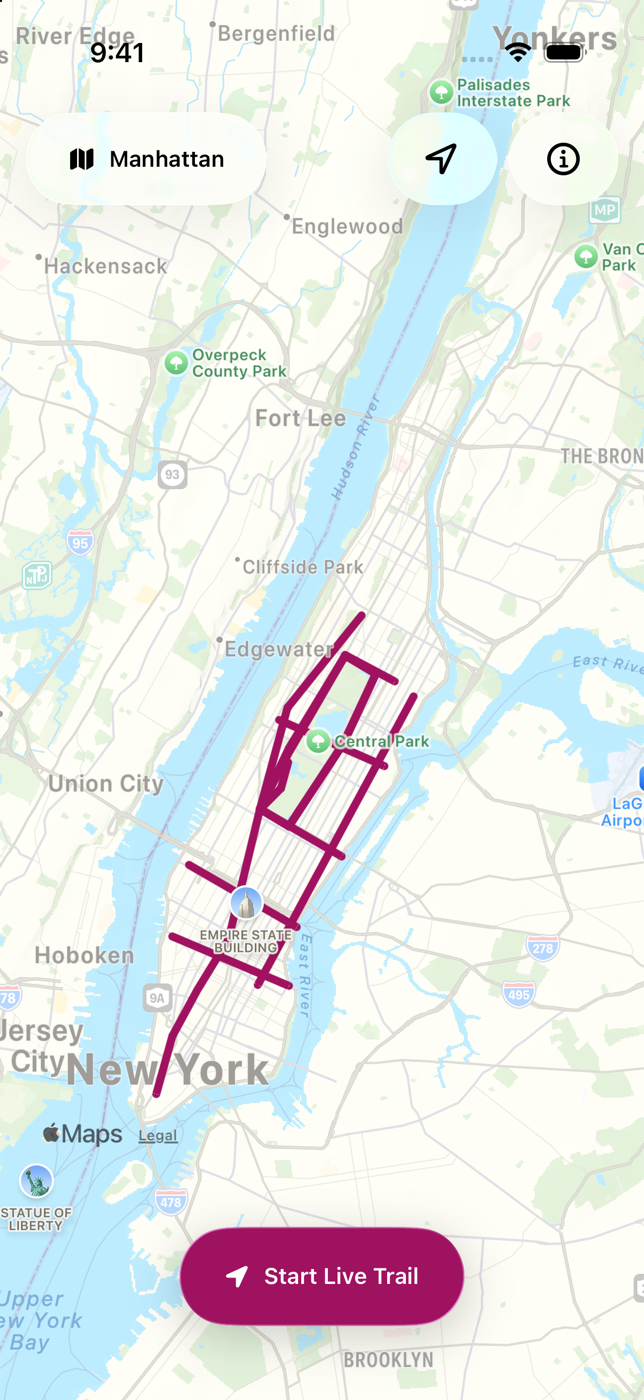
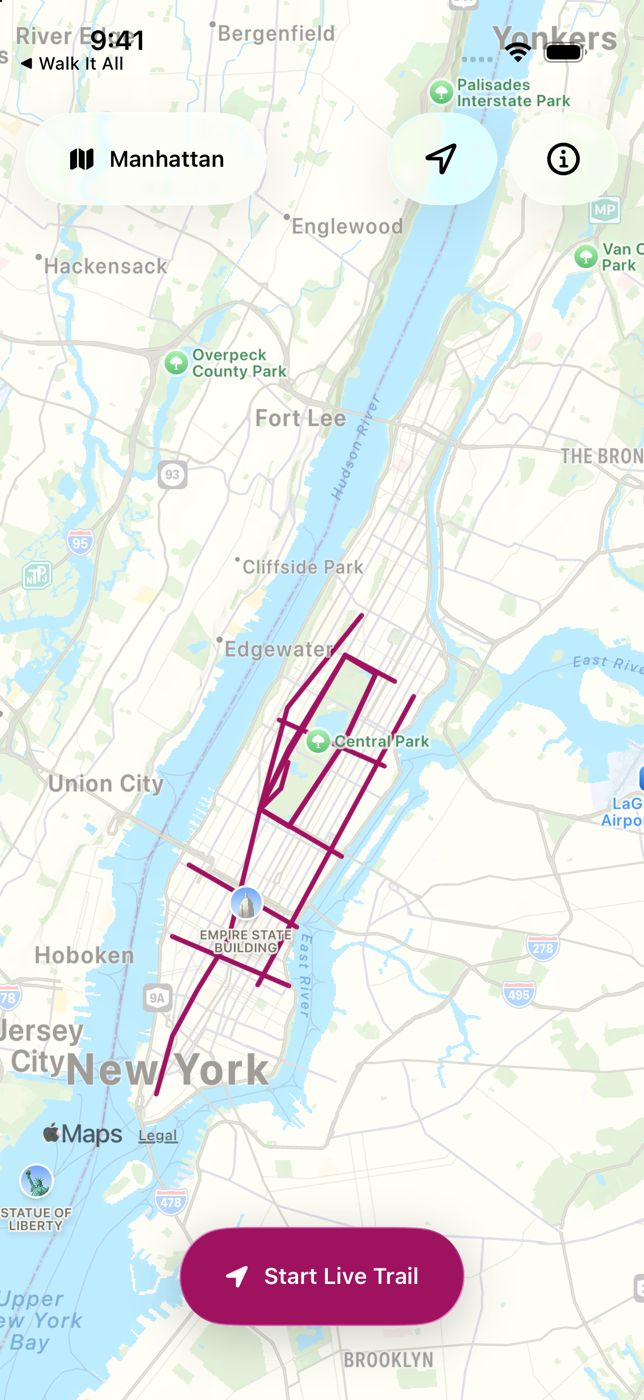
fix(map): keep streets legible beneath recorded routes

diff --git a/WalkItAll/Map/LifetimeRouteOverlay.swift b/WalkItAll/Map/LifetimeRouteOverlay.swift
@@ -49,7 +49,9 @@ enum LifetimeRouteRenderer {
     static func make(overlay: LifetimeWorkoutRouteOverlay, traits: UITraitCollection) -> MKMultiPolylineRenderer {
         let renderer = MKMultiPolylineRenderer(multiPolyline: overlay)
         renderer.strokeColor = historyColor.resolvedColor(with: traits)
-        renderer.lineWidth = 5
+        renderer.lineWidth = 3
+        // Preserve darker street detail without building up opacity on repeat visits.
+        renderer.blendMode = .darken
         renderer.lineCap = .round
         renderer.lineJoin = .round
         return renderer

diff --git a/WalkItAllTests/WalkItAllTests.swift b/WalkItAllTests/WalkItAllTests.swift
@@ -790,7 +790,8 @@ final class WalkItAllTests: XCTestCase {
         XCTAssertEqual(daylight.strokeColor, night.strokeColor)
         for renderer in [daylight, night] {
             let color = try XCTUnwrap(renderer.strokeColor)
-            XCTAssertGreaterThanOrEqual(renderer.lineWidth, 5)
+            XCTAssertEqual(renderer.lineWidth, 3)
+            XCTAssertEqual(renderer.blendMode, .darken)
             XCTAssertEqual(color.cgColor.alpha, 1)
         }
         for base in [light, dark] {

diff --git a/Documentation/ARCHITECTURE.md b/Documentation/ARCHITECTURE.md
@@ -66,7 +66,7 @@ The file and directory use complete-until-first-user-authentication protection a
 
 `LifetimeRouteSnapshot` is built immutably away from the main actor and contains one native `MKMultiPolyline` overlay per workout. Each overlay has tight local bounds, so MapKit performs its own viewport culling and does not treat worldwide history as one enormous drawing surface. This also avoids maintaining a parallel custom spatial index and renderer.
 
-Historical paths use the app’s adaptive accent color in a fully opaque five-point stroke from the first visit. The app declares a light appearance in its Info.plist. MapKit and SwiftUI share a deep berry accent with a darker variant for Increase Contrast. Selected workouts use outlined orange strokes, Live Trail uses outlined green strokes, and MapKit supplies the blue position indicator.
+Historical paths use a three-point berry stroke below map labels. The renderer uses full opacity and darken blending to preserve darker street details and give a single visit the same weight as repeated visits. The app declares a light appearance in its Info.plist. MapKit and SwiftUI share a deep berry accent with a darker variant for Increase Contrast. Selected workouts use outlined orange strokes, Live Trail uses outlined green strokes, and MapKit supplies the blue position indicator.
 
 The map uses MapKit's native user-tracking modes. From a freely panned map, the location button first enters north-up position following; a second tap enters heading-up following, which rotates the map using MapKit's standard heading presentation; the next tap returns north-up. Because MapKit's plain `follow` mode promises position tracking but does not promise orientation, the adapter first resets `MKMapCamera.heading` to its documented true-north value of zero and then enables `follow`. Starting or resuming Live Trail enters heading-up following. Normal map gestures return the camera to free mode through MapKit's tracking delegate, so the camera never fights the user. No parallel compass service or custom direction annotation is maintained.
 
